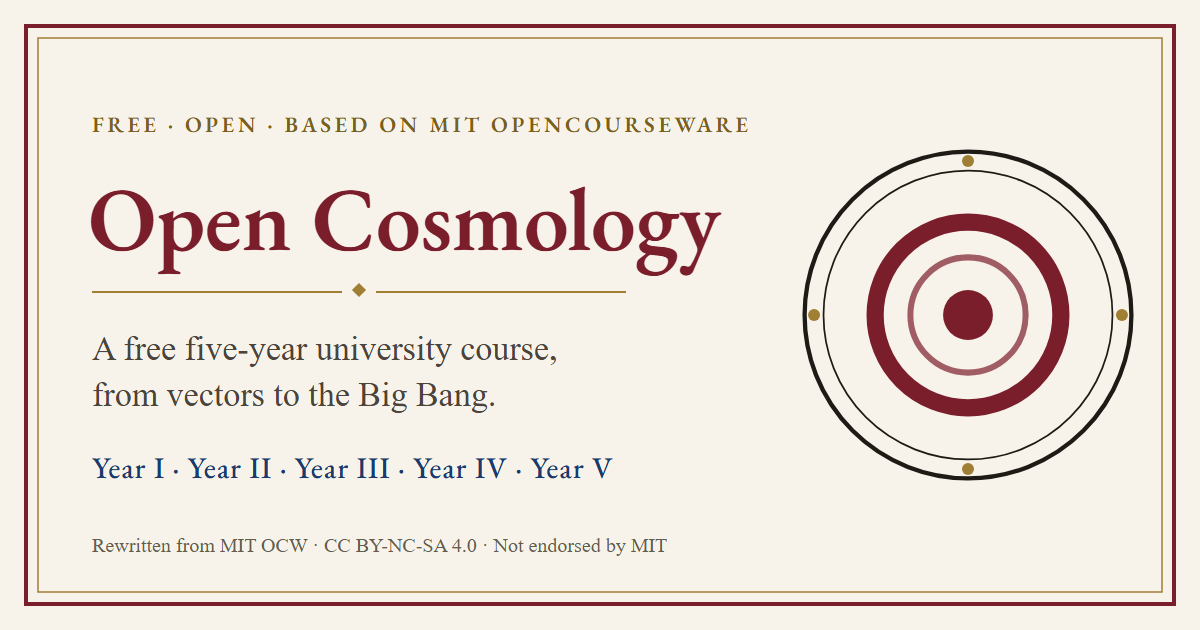
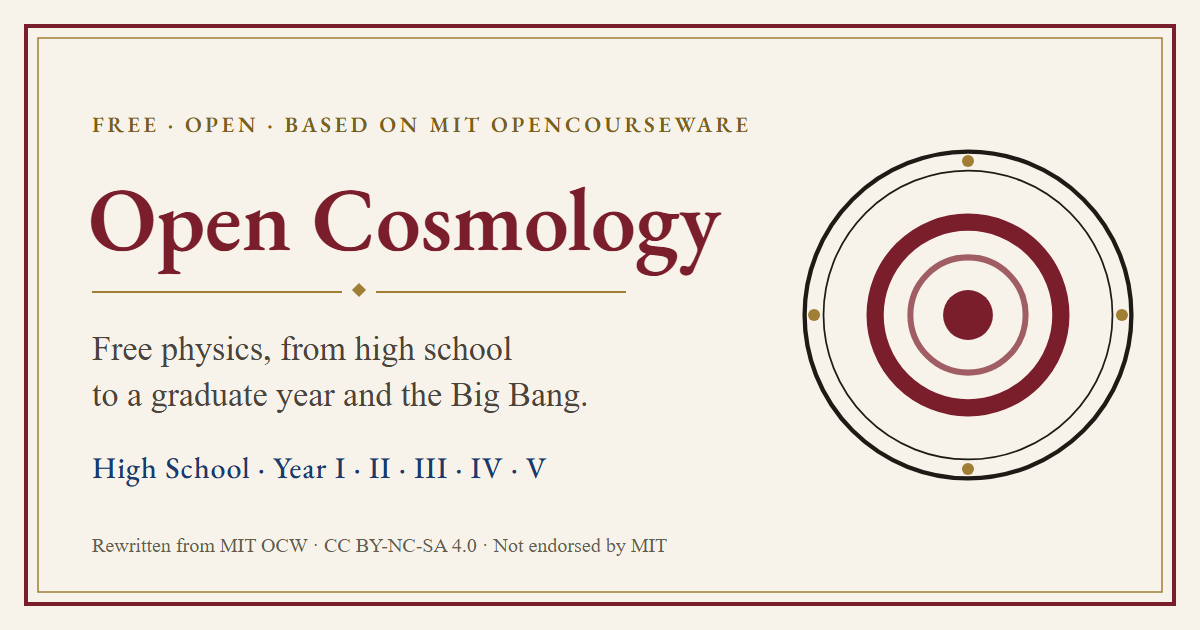
Use opencosmology.eu, mention the High School in the motto, point GitHub links to stefan123-physics/open-cosmology
- lib/site-url.ts: production builds use https://opencosmology.eu
  (NEXT_PUBLIC_SITE_URL still overrides it).
- Header motto: "Physics & cosmology, from high school to a graduate
  year"; on High School pages "The High School: physics from the very
  first step". Homepage intro, About, site description and the share
  image mention the High School too.
- Issue, licence and version links point to the new repository.

Changed region(s): [[0.0617, 0.6032, 0.4933, 0.6635], [0.0617, 0.7238, 0.5242, 0.7841], [0.0617, 0.5429, 0.4625, 0.573]]

diff --git a/app/about/page.tsx b/app/about/page.tsx
@@ -9,7 +9,7 @@ export default function About() {
       <h1>About Open Cosmology</h1>
       <p>
         Open Cosmology is a free, non-commercial, complete university programme in physics that leads to cosmology: a four-year
-        bachelor&apos;s core and a fifth, graduate year. Every lecture of every course is covered, following MIT&apos;s
+        bachelor&apos;s core and a fifth, graduate year, with a High School course before it for complete beginners. Every lecture of every course is covered, following MIT&apos;s
         undergraduate physics curriculum (and, in Year V, two MIT graduate courses: 8.902 Astrophysics II and 8.962 General
         Relativity) and, inside each course, MIT&apos;s own lecture order. Cosmology is the destination and the largest part, and the earlier courses show where each
         idea is used in cosmology.
@@ -131,7 +131,7 @@ export default function About() {
       </ul>
       <p>
         If something is hard to use for you, please open an issue on{" "}
-        <a href="https://github.com/raimonvibe/open-cosmology/issues">GitHub</a> so it can be fixed.
+        <a href="https://github.com/stefan123-physics/open-cosmology/issues">GitHub</a> so it can be fixed.
       </p>
 
       <h2 id="privacy">Privacy</h2>
@@ -146,7 +146,7 @@ export default function About() {
         <a href="https://creativecommons.org/licenses/by-nc-sa/4.0/">Creative Commons Attribution-NonCommercial-ShareAlike 4.0</a>,
         as MIT&apos;s licence requires. You may share and adapt it for non-commercial purposes, with attribution, under the same
         licence. The software that builds the site is released under the{" "}
-        <a href="https://github.com/raimonvibe/open-cosmology/blob/main/LICENSE">MIT License</a>, so anyone may reuse it. There are no
+        <a href="https://github.com/stefan123-physics/open-cosmology/blob/main/LICENSE">MIT License</a>, so anyone may reuse it. There are no
         paid features on MIT-based content. MIT and the course instructors do not endorse this site.
       </p>
       <p>

diff --git a/app/layout.tsx b/app/layout.tsx
@@ -48,7 +48,7 @@ const mathFallback = localFont({
 });
 
 const description =
-  "A free, open path to modern cosmology, rewritten from MIT OpenCourseWare: from vectors and motion to the expanding universe, the CMB, inflation, dark matter and dark energy.";
+  "A free, open path to modern cosmology, from a High School course for beginners through a university programme rewritten from MIT OpenCourseWare: from vectors and motion to the expanding universe, the CMB, inflation, dark matter and dark energy.";
 
 // Icons (app/favicon.ico, icon.svg, apple-icon.png) and share images (app/opengraph-image.png,
 // twitter-image.png) are picked up from the app folder automatically; regenerate them with `npm run icons`.
@@ -204,7 +204,7 @@ export default function RootLayout({ children }: { children: React.ReactNode }) 
               ) : (
                 <>
                   Version{" "}
-                  <a href={`https://github.com/raimonvibe/open-cosmology/commit/${BUILD_VERSION}`}>
+                  <a href={`https://github.com/stefan123-physics/open-cosmology/commit/${BUILD_VERSION}`}>
                     <code>{BUILD_VERSION.slice(0, 7)}</code>
                   </a>
                 </>

diff --git a/app/page.tsx b/app/page.tsx
@@ -23,7 +23,7 @@ export default function Home() {
             Open Cosmology is a free, complete programme in physics: four undergraduate years from classical mechanics and
             electromagnetism through relativity, quantum and statistical physics to the early universe, with the calculus,
             differential equations and linear algebra they rest on, and a fifth, graduate year for dark matter, the growth of
-            structure and general relativity. It is rewritten from MIT lectures as clear
+            structure and general relativity. A High School course comes first, for anyone starting from scratch. The university years are rewritten from MIT lectures as clear
             explanations, interactive graphs and worked examples. Cosmology is the destination: the expanding universe, the Big
             Bang, the cosmic microwave background, inflation, dark matter and dark energy.
           </p>

diff --git a/lib/site-url.ts b/lib/site-url.ts
@@ -1,7 +1,10 @@
+/** The site's own domain. */
+export const SITE_DOMAIN = "https://opencosmology.eu";
+
 /**
- * Absolute site URL, used for share images and the sitemap.
- * Set NEXT_PUBLIC_SITE_URL to your domain; on Vercel the production domain is detected automatically.
+ * Absolute site URL, used for share images, the sitemap and "Report a mistake" links.
+ * NEXT_PUBLIC_SITE_URL overrides it (no slash at the end); otherwise every production build
+ * (Vercel or a local `npm run build`) uses opencosmology.eu, and `npm run dev` uses localhost.
  */
 export const SITE_URL =
-  process.env.NEXT_PUBLIC_SITE_URL ??
-  (process.env.VERCEL_PROJECT_PRODUCTION_URL ? `https://${process.env.VERCEL_PROJECT_PRODUCTION_URL}` : "http://localhost:3000");
+  process.env.NEXT_PUBLIC_SITE_URL ?? (process.env.NODE_ENV === "production" ? SITE_DOMAIN : "http://localhost:3000");

diff --git a/scripts/make-icons.ts b/scripts/make-icons.ts
@@ -7,7 +7,10 @@
  *   app/apple-icon.png         180 px (iPhone/iPad home screen)
  *   public/icons/icon-192.png, icon-512.png, maskable-512.png (Android home screen, via app/manifest.ts)
  *   app/opengraph-image.png, app/twitter-image.png  1200×630 (link previews)
- * Text in the share image uses the OFL fonts in brand/fonts.
+ * Text in the share image uses the OFL fonts in brand/fonts. On Windows, sharp ignores fontconfig and
+ * uses system fonts only, so the share image comes out in Times and a monospace face: check it, and if so
+ * render brand/og.template.svg in a browser that loads brand/fonts with @font-face (headless Edge or Chrome,
+ * --window-size=1200,630 --screenshot) and save that as both share images.
  */
 import fs from "node:fs";
 import os from "node:os";

diff --git a/components/SiteHeader.tsx b/components/SiteHeader.tsx
@@ -143,7 +143,11 @@ export function SiteHeader({ years, tools }: { years: NavYear[]; tools: Tool[] }
           <Crest />
           <span className="brand-words">
             <span className="brand-text">Open Cosmology</span>
-            <span className="brand-motto">Physics &amp; cosmology: four years, plus a graduate year</span>
+            <span className="brand-motto">
+              {pathname.startsWith("/highschool")
+                ? "The High School: physics from the very first step"
+                : "Physics & cosmology, from high school to a graduate year"}
+            </span>
           </span>
         </Link>
         {!isPhone && (

diff --git a/app/accessibility/page.tsx b/app/accessibility/page.tsx
@@ -196,7 +196,7 @@ export default function Accessibility() {
         The site is tested with keyboard only, in light and dark mode, with reduced motion and at screen widths from 320 pixels,
         and it has a checklist for testing with the NVDA and Orca screen readers. If something is hard to use for you, please open
         an issue on{" "}
-        <a href="https://github.com/raimonvibe/open-cosmology/issues">GitHub</a> so it can be fixed.
+        <a href="https://github.com/stefan123-physics/open-cosmology/issues">GitHub</a> so it can be fixed.
       </p>
     </div>
   );

diff --git a/app/privacy/page.tsx b/app/privacy/page.tsx
@@ -112,7 +112,7 @@ export default function Privacy() {
       <h2 id="feedback">Reporting mistakes and other feedback</h2>
       <p>
         Mistakes and suggestions are collected as issues on{" "}
-        <a href="https://github.com/raimonvibe/open-cosmology/issues">GitHub</a>. Issues there are public and need a GitHub
+        <a href="https://github.com/stefan123-physics/open-cosmology/issues">GitHub</a>. Issues there are public and need a GitHub
         account; GitHub&apos;s own privacy policy applies. Please do not put personal information in an issue.
       </p>
 

diff --git a/app/courses/[course]/[slug]/page.tsx b/app/courses/[course]/[slug]/page.tsx
@@ -70,7 +70,7 @@ export default async function TopicPage({ params }: { params: Promise<Params> })
   const next = ordered[idx + 1];
   // "Report a mistake": a GitHub issue with the page named. Only page details go in the link, never anything about the reader.
   const reportUrl =
-    "https://github.com/raimonvibe/open-cosmology/issues/new?" +
+    "https://github.com/stefan123-physics/open-cosmology/issues/new?" +
     new URLSearchParams({
       title: `Mistake: ${page.title} (${course.id})`,
       body: `Page: ${SITE_URL}${page.href}

diff --git a/docs/DEVELOPMENT.md b/docs/DEVELOPMENT.md
@@ -18,7 +18,7 @@ The calc tests need Python once: `python -m venv .venv`, then `.venv/Scripts/pip
 
 GitHub Actions (`.github/workflows/checks.yml`) runs the content check, type check, calc tests and build on every pull request.
 
-Deploy: import the repository in Vercel (framework preset: Next.js). No environment variables are required; set `NEXT_PUBLIC_SITE_URL` for correct sitemap URLs.
+Deploy: import the repository in Vercel (framework preset: Next.js). No environment variables are required: production builds use https://opencosmology.eu (`SITE_DOMAIN` in `lib/site-url.ts`) for the sitemap, share images and report links; `NEXT_PUBLIC_SITE_URL` overrides it.
 
 ## How it works
 
@@ -102,7 +102,7 @@ The logo and share image are drawn as SVG in `brand/` and rendered by `npm run i
 | `public/icons/icon-192.png`, `icon-512.png`, `maskable-512.png` + `app/manifest.ts` | Android "Add to Home screen" / install |
 | `app/opengraph-image.png`, `app/twitter-image.png` (1200×630) | Link previews on social media and chat apps |
 
-Share images need absolute URLs: on Vercel the production domain is detected automatically; elsewhere set `NEXT_PUBLIC_SITE_URL=https://your-domain`.
+Share images need absolute URLs: production builds use https://opencosmology.eu; for another domain set `NEXT_PUBLIC_SITE_URL=https://your-domain`.
 
 ## License
 

diff --git a/AGENTS.md b/AGENTS.md
@@ -269,5 +269,5 @@ Two further plans: [docs/CALC_TESTS_PLAN.md](docs/CALC_TESTS_PLAN.md) — every 
 
 ## Git
 
-- Commit only when asked. Branch `main`. This folder (`001Open-Cosmology-Final`, Open Cosmology with the High School) is a new local repository started on 2026-11-20 with no remote yet; the owner will choose a new GitHub repository and connect Vercel later. Earlier history lives in the old `raimonvibe/open-cosmology` and `open-cosmology-highschool` repositories.
+- Commit only when asked. Branch `main`. This folder (`001Open-Cosmology-Final`, Open Cosmology with the High School) is a repository started on 2026-11-20; its remote `origin` is https://github.com/stefan123-physics/open-cosmology (since 2026-11-21), which the owner connects to Vercel and opencosmology.eu. Earlier history lives in the old `raimonvibe/open-cosmology` and `open-cosmology-highschool` repositories.
 - Run `npm run build` before committing; it must show `0 error(s)`.

diff --git a/docs/TWO-PC-WORKFLOW.md b/docs/TWO-PC-WORKFLOW.md
@@ -28,7 +28,7 @@ Every lesson builds only on earlier lessons, listed in `prerequisites`. PC 2's l
 **Owner, on PC 1 (this PC):**
 1. Create a new **private** repository on GitHub (or GitLab).
 2. Connect `001Open-Cosmology-Final` to it and push `main` (Claude can do this when given the address).
-3. Once it exists, tell Claude the repository name, so the "Report a mistake" link on every lesson can point to it. It still points to `raimonvibe/open-cosmology` (`app/courses/[course]/[slug]/page.tsx`).
+3. Done 2026-11-21: the repository is `stefan123-physics/open-cosmology` (https://github.com/stefan123-physics/open-cosmology), and the "Report a mistake" link on every lesson, the issue links and the footer's version link point to it.
 
 **Owner, on PC 2:**
 ```powershell
